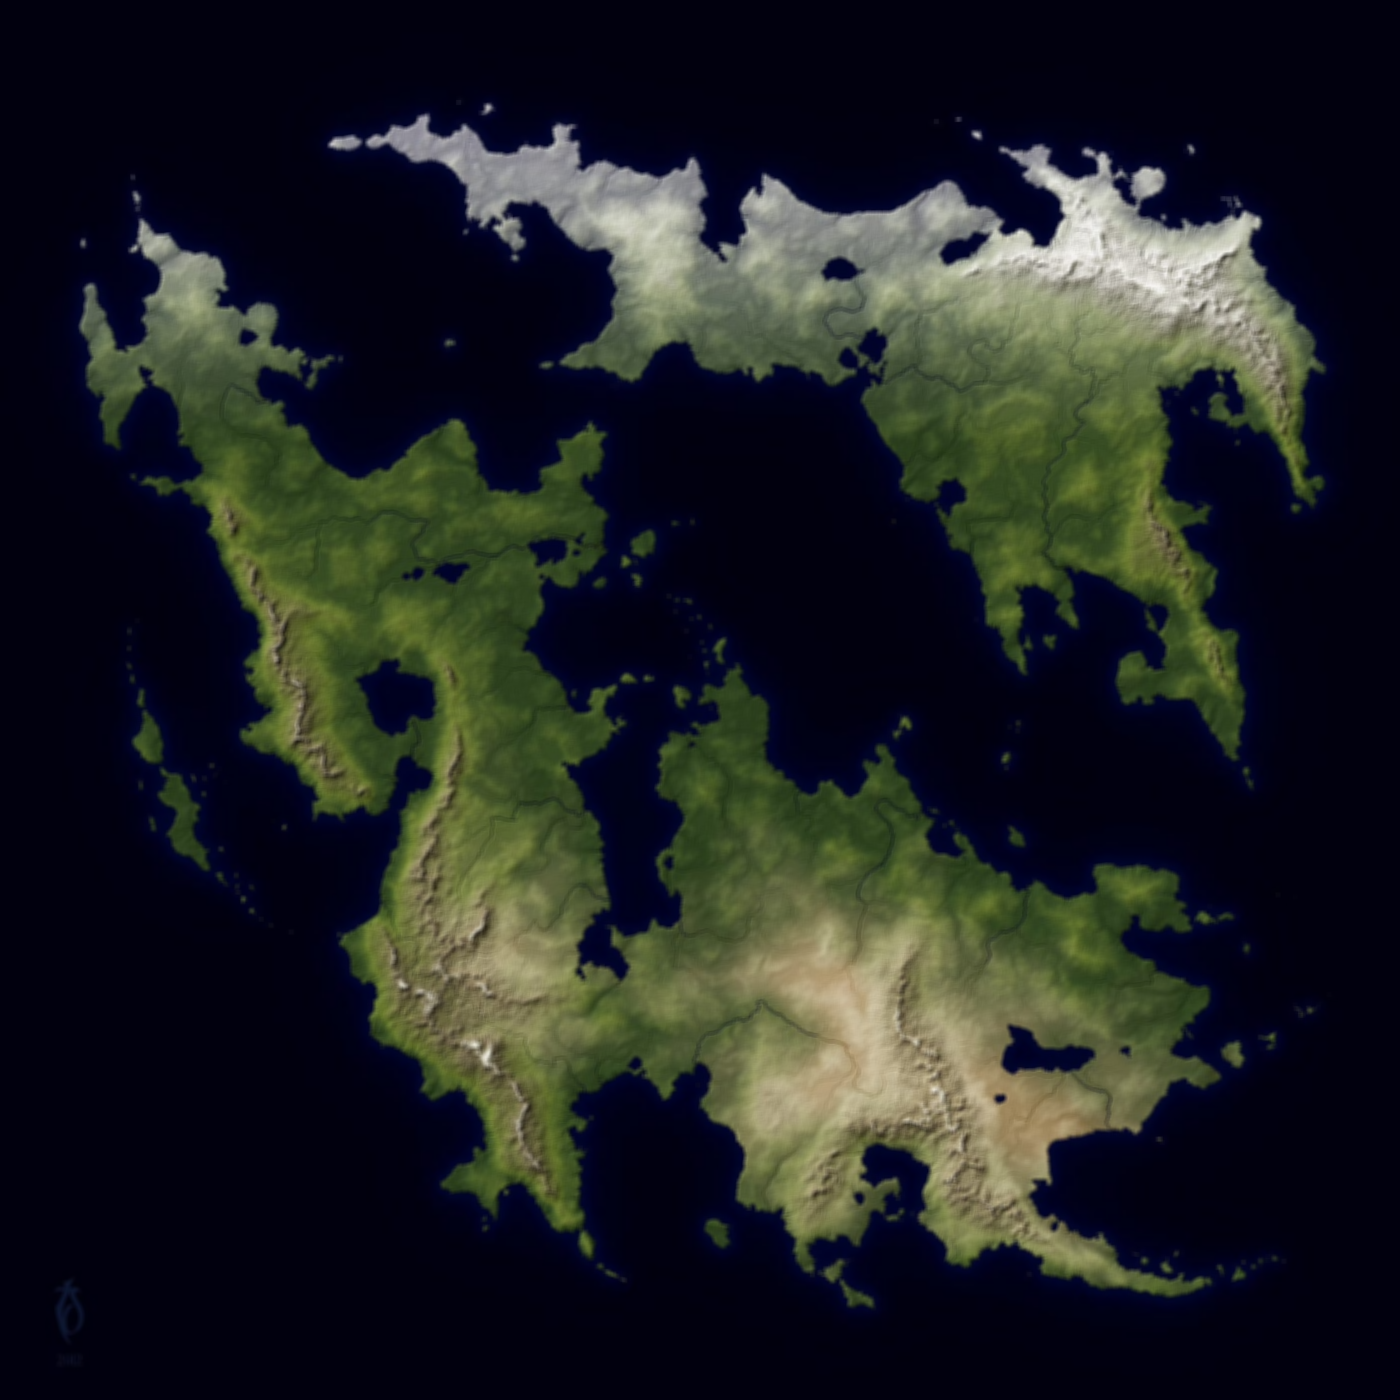
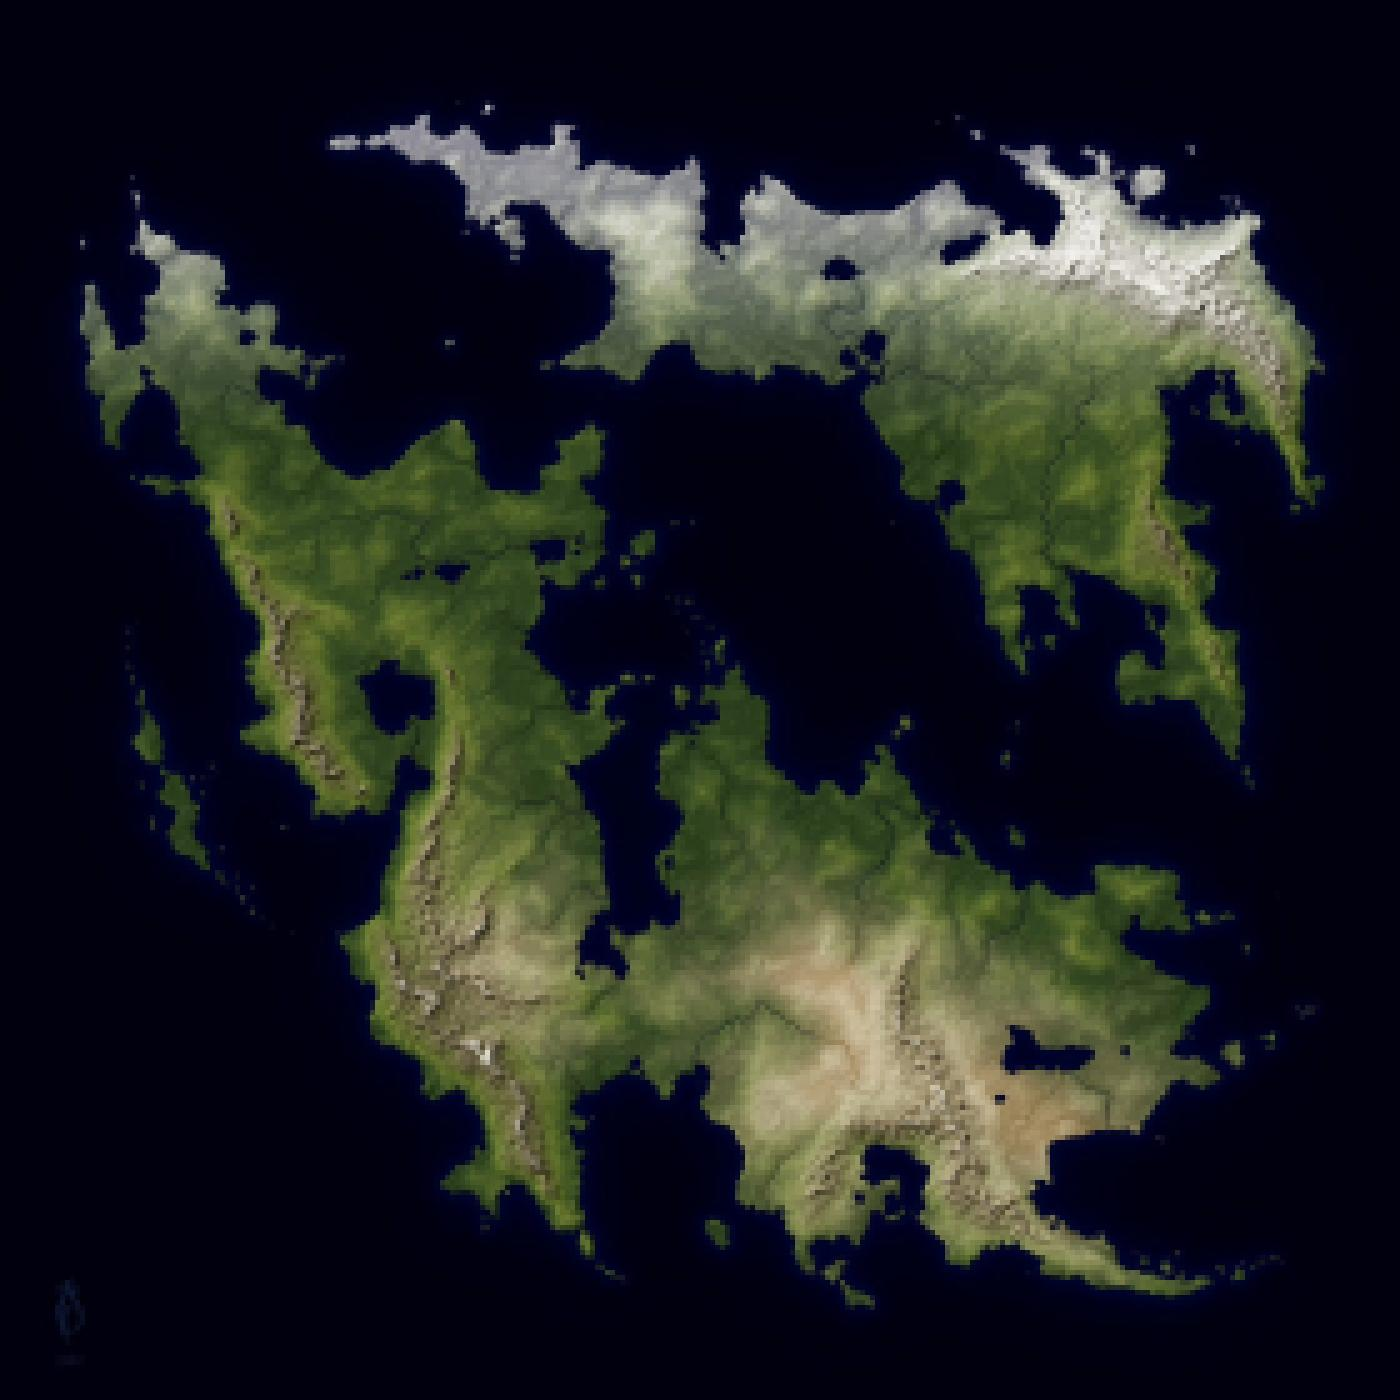
flou

diff --git a/src/CopieImage.java b/src/CopieImage.java
@@ -93,25 +93,44 @@ public class CopieImage {
         }
     }
 
-    public void copyImageFlou(String outputPath, NormeFlou flou){
-        BufferedImage newImage = new BufferedImage(image.getWidth(), image.getHeight(), BufferedImage.TYPE_3BYTE_BGR);
+    public void copyImageFlou(String outputPath, NormeFlou flou) {
+        int width = image.getWidth();
+        int height = image.getHeight();
+        int taille = flou.getTaille();
+        int demi = taille / 2;
 
-        for (int i = 0; i < image.getWidth(); i++) {
-            for (int j = 0; j < image.getHeight(); j++) {
-                int[] rgb = flou.getRGB(image, i, j);
-                int r = rgb[0];
-                int g = rgb[1];
-                int b = rgb[2];
-                newImage.setRGB(i, j, (r << 16) | (g << 8) | b);
+        BufferedImage newImage = new BufferedImage(width, height, BufferedImage.TYPE_3BYTE_BGR);
+
+        for (int i = demi; i < width - demi; i += taille) {
+            for (int j = demi; j < height - demi; j += taille) {
+                int[][] rgbZone = flou.getRGB(image, i, j);
+
+                for (int dx = -demi; dx <= demi; dx++) {
+                    for (int dy = -demi; dy <= demi; dy++) {
+                        int x = i + dx;
+                        int y = j + dy;
+
+                        if (x >= 0 && y >= 0 && x < width && y < height) {
+                            int index = (dx + demi) * taille + (dy + demi);
+                            int r = rgbZone[0][index];
+                            int g = rgbZone[1][index];
+                            int b = rgbZone[2][index];
+                            int rgb = (r << 16) | (g << 8) | b;
+                            newImage.setRGB(x, y, rgb);
+                        }
+                    }
+                }
             }
         }
 
         try {
-            ImageIO.write(newImage, "png", new File(outputPath));
+            ImageIO.write(newImage, "jpg", new File(outputPath));
         } catch (IOException e) {
-            e.printStackTrace();
+            System.err.println("Erreur lors de l'enregistrement : " + e.getMessage());
         }
     }
+
+
 
     public static void main(String[] args) {
         CopieImage copieImage = new CopieImage();
@@ -122,7 +141,7 @@ public class CopieImage {
         // Load and save the image
         copieImage.saveImage(inputPath);
 
-        FlouMoyen flou = new FlouMoyen(3);
+        FlouMoyen flou = new FlouMoyen(5);
 
         // Write the image to a new file
         copieImage.copyImageFlou(outputPath, flou);

diff --git a/src/FlouMoyen.java b/src/FlouMoyen.java
@@ -9,28 +9,39 @@ public class FlouMoyen implements NormeFlou{
 
     @Override
     public int[][] getRGB(BufferedImage image, int x, int y) {
-        int[][] rgb = new int
-
-        int r = 0, g = 0, b = 0;
+        int demi = taille / 2;
+        int sumR = 0, sumG = 0, sumB = 0;
         int count = 0;
 
-        for (int i = -taille%2-1; i <= taille%2+1; i++) {
-            for (int j = -taille%2-1; j <= taille%2+1; j++) {
-                int newX = x + i;
-                int newY = y + j;
+        for (int dx = -demi; dx <= demi; dx++) {
+            for (int dy = -demi; dy <= demi; dy++) {
+                int xi = x + dx;
+                int yj = y + dy;
 
-                if (newX >= 0 && newY >= 0 && newX < image.getWidth() && newY < image.getHeight()) {
-                    int rgb = image.getRGB(newX, newY);
-                    r += (rgb >> 16) & 0xFF;
-                    g += (rgb >> 8) & 0xFF;
-                    b += rgb & 0xFF;
+                if (xi >= 0 && xi < image.getWidth() && yj >= 0 && yj < image.getHeight()) {
+                    int rgb = image.getRGB(xi, yj);
+                    sumR += (rgb >> 16) & 0xFF;
+                    sumG += (rgb >> 8) & 0xFF;
+                    sumB += rgb & 0xFF;
                     count++;
                 }
             }
         }
 
-        return new int[]{r / count, g / count, b / count};
+        int avgR = sumR / count;
+        int avgG = sumG / count;
+        int avgB = sumB / count;
+
+        int[][] result = new int[3][taille * taille];
+        for (int i = 0; i < taille * taille; i++) {
+            result[0][i] = avgR;
+            result[1][i] = avgG;
+            result[2][i] = avgB;
+        }
+
+        return result;
     }
+
 
     @Override
     public int getTaille() {

diff --git a/src/FlouGauss.java b/src/FlouGauss.java
@@ -1,3 +1,5 @@
+import java.awt.image.BufferedImage;
+
 public class FlouGauss implements NormeFlou{
     private int taille;
 
@@ -6,28 +8,10 @@ public class FlouGauss implements NormeFlou{
     }
 
     @Override
-    public int[] getRGB(BufferedImage image, int x, int y) {
-        double r = 0, g = 0, b = 0;
-        double sum = 0.0;
-
-        for (int i = -taille; i <= taille; i++) {
-            for (int j = -taille; j <= taille; j++) {
-                int newX = x + i;
-                int newY = y + j;
-
-                if (newX >= 0 && newY >= 0 && newX < image.getWidth() && newY < image.getHeight()) {
-                    int rgb = image.getRGB(newX, newY);
-                    double weight = Math.exp(-(i * i + j * j) / (2.0 * taille * taille));
-                    r += ((rgb >> 16) & 0xFF) * weight;
-                    g += ((rgb >> 8) & 0xFF) * weight;
-                    b += (rgb & 0xFF) * weight;
-                    sum += weight;
-                }
-            }
-        }
-
-        return new int[]{(int)(r / sum), (int)(g / sum), (int)(b / sum)};
+    public int[][] getRGB(BufferedImage image, int x, int y) {
+        
     }
+
 
     @Override
     public int getTaille() {
